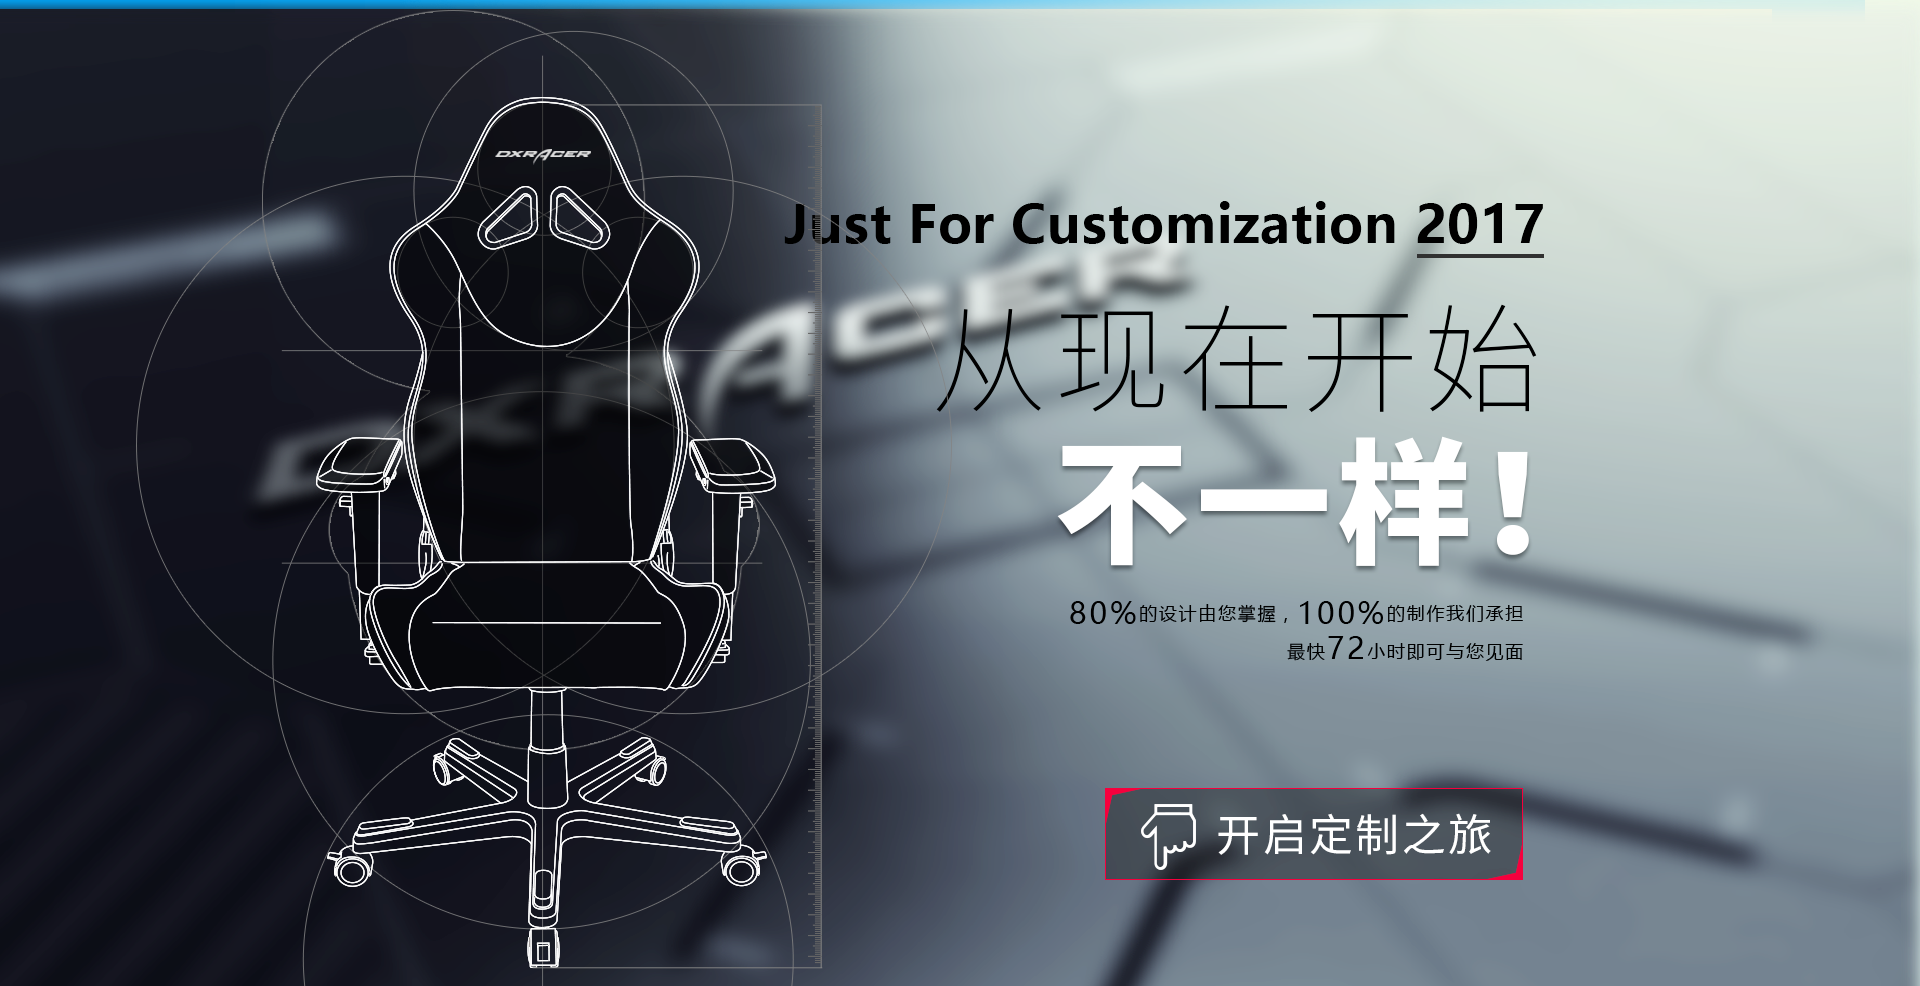
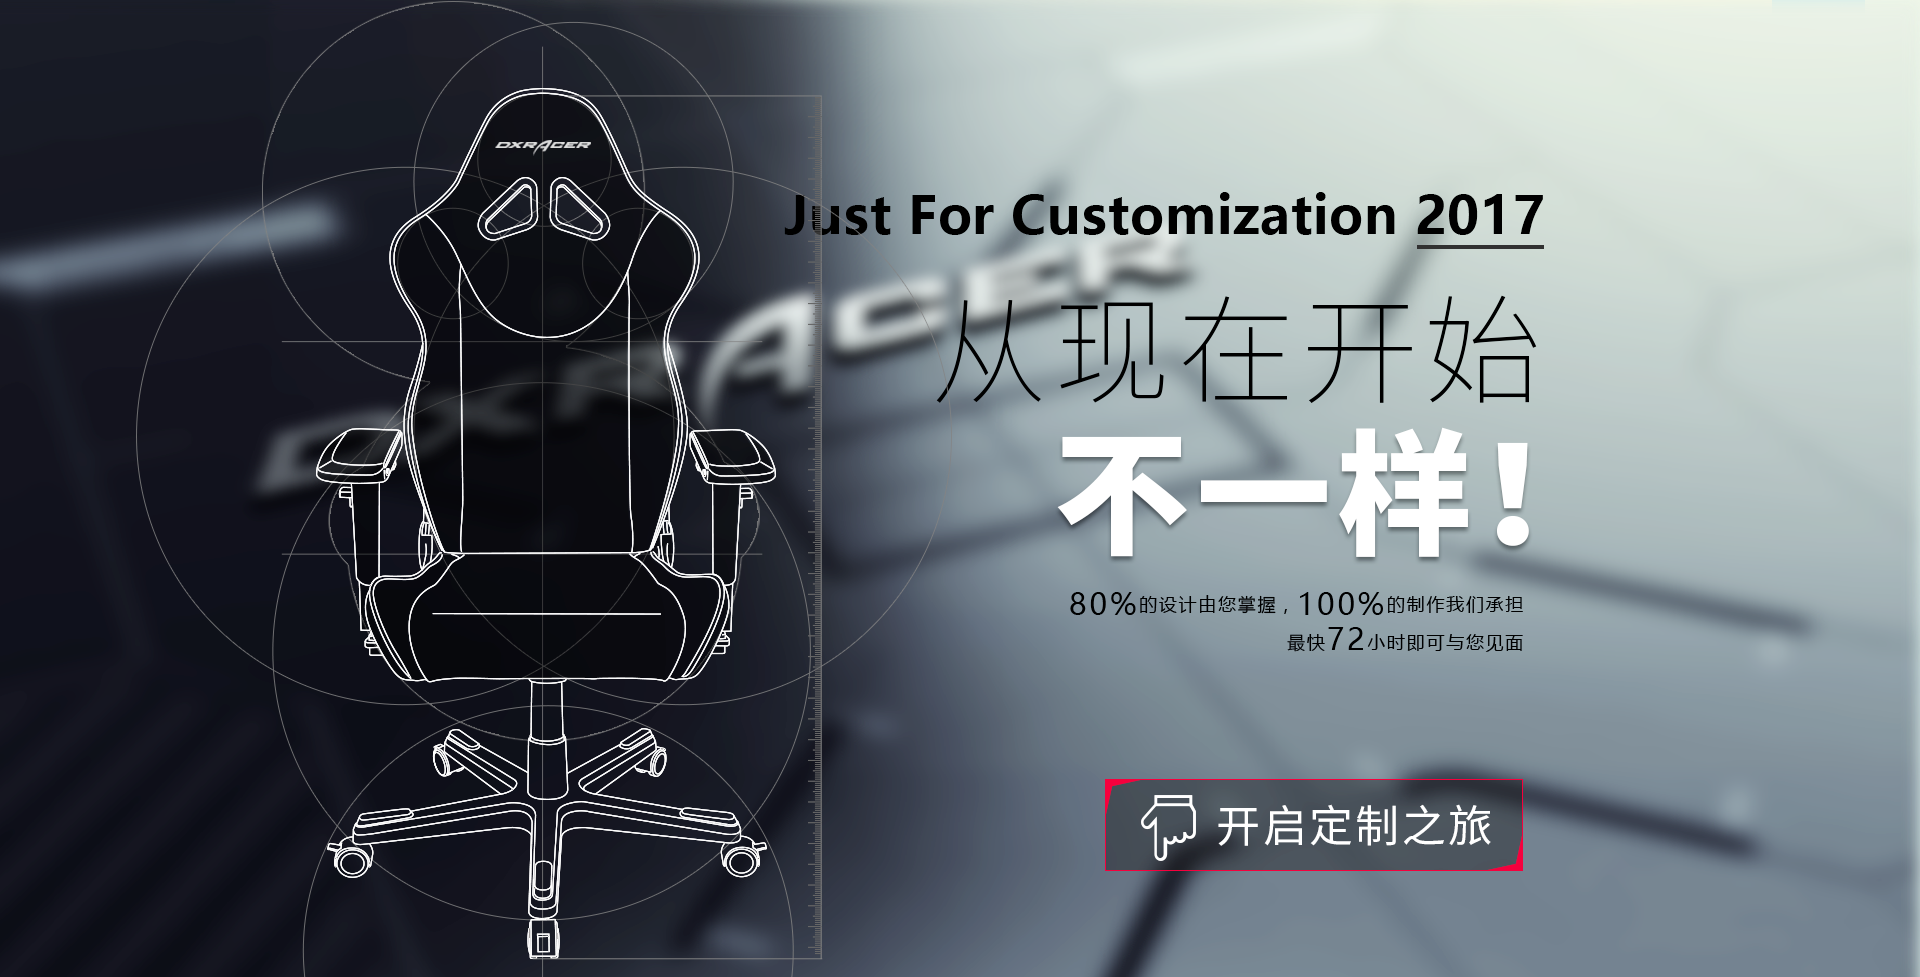
aaa

diff --git a/index.html b/index.html
@@ -22,7 +22,7 @@
   <ul id="bxslider" style="width:100%;">
             <li><img src="images/banner.png">
             </li>
-            <li><img src="images/banner2.jpg" width="100%"/>
+            <li><img src="images/banner2.jpg"/>
             </li>
         </ul>
   <ul class="dz-ad">
